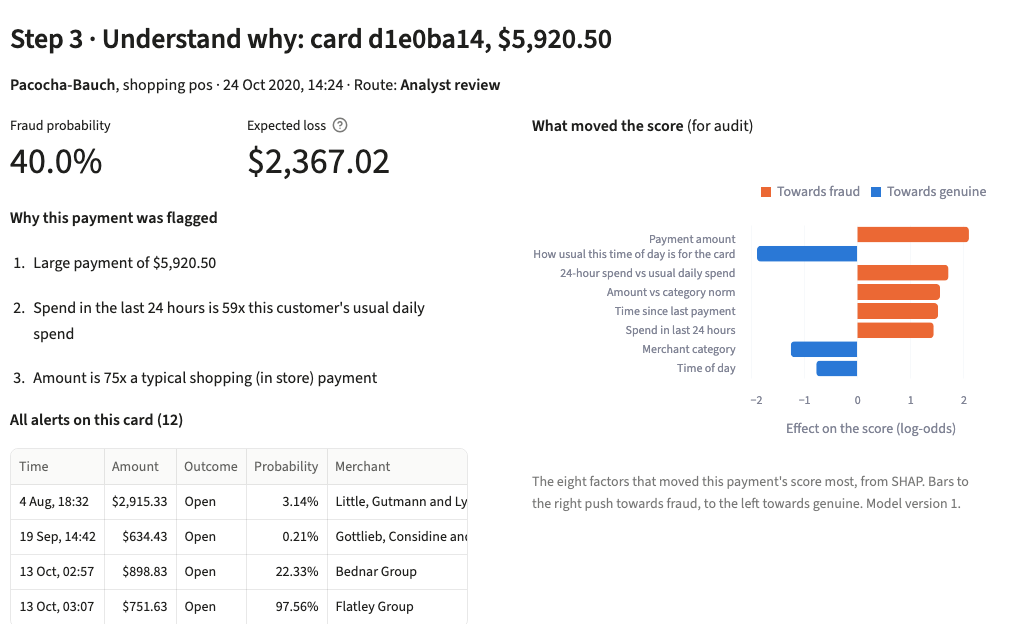
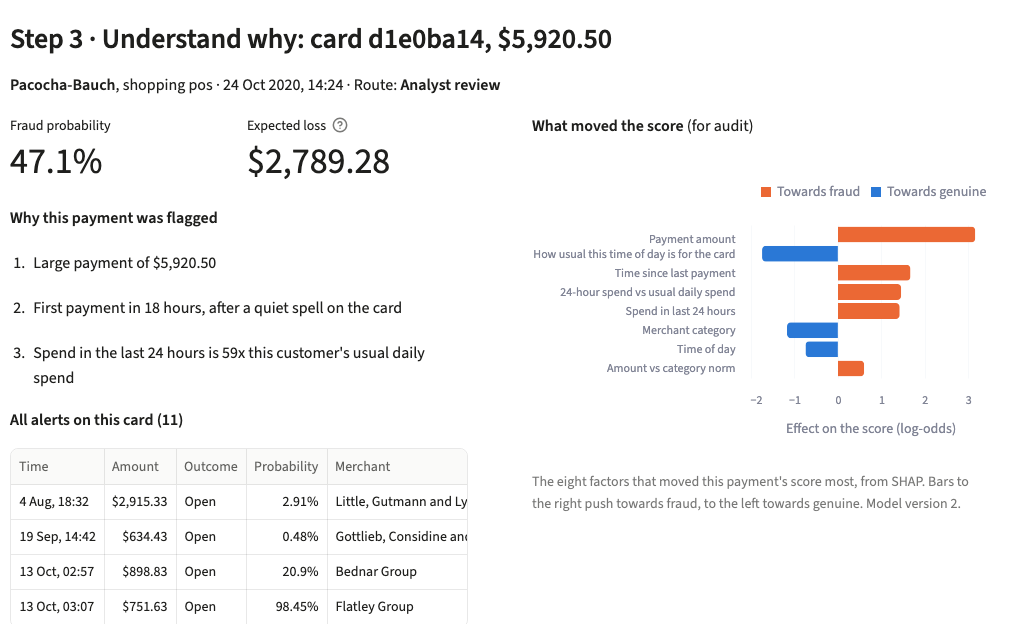
Fix training row order, retrain champion as version 2, refresh figures
The clean-machine rerun showed a rebuilt database gave a slightly
different model: training rows had no fixed order. Every loader now
sorts by time and transaction ID, and the champion is retrained as
version 2. A model change no longer leaves stale alerts open or
rewrites decided alerts. Current documents, the demo and the screenshot
are refreshed; the README and model card say why UK controls apply to
US-simulated data. CLAUDE.md is now kept local only.

diff --git a/src/explain.py b/src/explain.py
@@ -134,6 +134,8 @@ def load_alerts() -> pd.DataFrame:
         FROM scoring.decisions d
         JOIN analytics.stg_transactions s USING (trans_num)
         WHERE d.route <> 'approve'
+        -- Fixed row order, so a rebuilt database gives an identical model and results (TC-68).
+        ORDER BY s.trans_ts, d.trans_num
     """
     with connect() as conn, conn.cursor() as cur:
         cur.execute(sql)
@@ -191,7 +193,12 @@ ON CONFLICT (trans_num) DO UPDATE SET
     fraud_probability = EXCLUDED.fraud_probability, expected_loss_usd = EXCLUDED.expected_loss_usd,
     route = EXCLUDED.route, reason_1 = EXCLUDED.reason_1, reason_2 = EXCLUDED.reason_2,
     reason_3 = EXCLUDED.reason_3, reason_detail = EXCLUDED.reason_detail, model_version = EXCLUDED.model_version
+WHERE app.alerts.status = 'open'   -- a decided alert keeps the score and reasons the analyst saw
 """
+
+# After a model change, open alerts the new model no longer raises leave the queue.
+# Decided alerts are never removed: they are the audit trail.
+REMOVE_STALE = "DELETE FROM app.alerts WHERE status = 'open' AND model_version <> %s"
 
 
 def plot_importance(importance: pd.Series) -> None:
@@ -243,6 +250,8 @@ def main() -> None:
     with connect() as conn, conn.cursor() as cur:
         cur.execute(ALERTS_DDL)
         cur.executemany(UPSERT, rows)
+        cur.execute(REMOVE_STALE, (str(version),))
+        print(f"Removed {cur.rowcount:,} open alerts from earlier model versions")
         conn.commit()
         cur.execute("SELECT route, count(*) FROM app.alerts GROUP BY route ORDER BY 2 DESC")
         print("app.alerts by route:", dict(cur.fetchall()))

diff --git a/src/train.py b/src/train.py
@@ -1,6 +1,6 @@
 """Train and compare the fraud models on the validation months.
 
-Design (agreed decisions are in CLAUDE.md, "Modelling decisions"):
+Design (agreed decisions are in docs/decision_log.md, E12 to E16):
   - Fit on calendar 2019; compare on 1 Jan to 21 Jun 2020 (the rest of the training file).
     The test months (21 Jun to Dec 2020) are NOT read here at all.
   - No class reweighting: models learn the true fraud rate, so probabilities stay honest.
@@ -88,6 +88,8 @@ def load_training_file(source_file: str = "fraudTrain.csv") -> pd.DataFrame:
         FROM analytics.fct_transaction_features f
         JOIN analytics.fct_rules_baseline r USING (trans_num)
         WHERE f.source_file = '{source_file}'
+        -- Fixed row order, so a rebuilt database gives an identical model and results (TC-68).
+        ORDER BY f.trans_ts, f.trans_num
     """
     with connect() as conn, conn.cursor() as cur:
         cur.execute(sql)

diff --git a/src/leakage_checks.py b/src/leakage_checks.py
@@ -49,10 +49,6 @@ def fraud_only_cards() -> set[str]:
 
 def main() -> None:
     df = load_training_file()
-    with connect() as conn, conn.cursor() as cur:   # card token, for check 4
-        cur.execute("SELECT trans_num, card_token FROM analytics.fct_transaction_features "
-                    "WHERE source_file = 'fraudTrain.csv'")
-        df = df.merge(pd.DataFrame(cur.fetchall(), columns=["trans_num", "card_token"]), on="trans_num")
     fit = df[df["trans_ts"] < FIT_END].reset_index(drop=True)
     valid = df[df["trans_ts"] >= FIT_END].reset_index(drop=True)
     categories = sorted(fit["category"].unique())

diff --git a/src/results_table.py b/src/results_table.py
@@ -30,6 +30,8 @@ def load() -> pd.DataFrame:
         JOIN scoring.model_scores l ON l.trans_num = s.trans_num AND l.model_name = 'logistic_regression'
                                     AND l.period = 'test'
         WHERE s.source_file = 'fraudTest.csv'
+        -- Fixed row order, so a rebuilt database gives an identical model and results (TC-68).
+        ORDER BY s.trans_ts, s.trans_num
     """
     with connect() as conn, conn.cursor() as cur:
         cur.execute(sql)

diff --git a/src/decisioning.py b/src/decisioning.py
@@ -57,6 +57,8 @@ def load_period(period: str) -> pd.DataFrame:
         JOIN analytics.fct_rules_baseline r USING (trans_num)
         JOIN scoring.model_scores s USING (trans_num)
         WHERE s.model_name = 'xgboost' AND s.period = %s
+        -- Fixed row order, so a rebuilt database gives an identical model and results (TC-68).
+        ORDER BY f.trans_ts, f.trans_num
     """
     with connect() as conn, conn.cursor() as cur:
         cur.execute(sql, (period,))

diff --git a/src/drift.py b/src/drift.py
@@ -117,6 +117,8 @@ def load_outcomes() -> pd.DataFrame:
         JOIN scoring.decisions d USING (trans_num)
         JOIN analytics_restricted.fairness_attributes a USING (trans_num)
         WHERE s.source_file = 'fraudTest.csv'
+        -- Fixed row order, so a rebuilt database gives an identical model and results (TC-68).
+        ORDER BY s.trans_ts, s.trans_num
     """
     with connect() as conn, conn.cursor() as cur:
         cur.execute(sql)

diff --git a/src/fairness.py b/src/fairness.py
@@ -51,6 +51,8 @@ def load() -> pd.DataFrame:
         JOIN scoring.decisions d USING (trans_num)
         JOIN analytics_restricted.fairness_attributes a USING (trans_num)
         WHERE s.source_file = 'fraudTest.csv'
+        -- Fixed row order, so a rebuilt database gives an identical model and results (TC-68).
+        ORDER BY s.trans_ts, s.trans_num
     """
     with connect() as conn, conn.cursor() as cur:
         cur.execute(sql)

diff --git a/README.md b/README.md
@@ -5,6 +5,8 @@ A fraud operations team gets more alerts than its analysts can work. **Which ale
 This project answers that end to end: a SQL feature layer in dbt, an XGBoost model that is checked hard for leakage, a cost-based routing decision, three plain-English reasons on every alert, and a Streamlit queue where analysts record decisions with a full audit trail. The BA pack (process maps, user stories, traceability, UAT, a model card on PRA SS1/23) sits alongside it.
 
 > **Simulated data.** Everything runs on the Kaggle Sparkov dataset: 1.85 million card payments on 999 US cards, 2019 and 2020. The simulator makes fraud much easier to spot than a real book does, so the results show the method and the controls. They are not a forecast of production performance. Money is in US dollars because the data is US-simulated.
+>
+> **Why UK rules on US data?** The project designs the alert queue for a UK card issuer, so it applies the controls that issuer would answer to: FCA Consumer Duty, the Equality Act, PRA SS1/23, UK GDPR and Strong Customer Authentication. Those rules follow the bank and its customers, not the currency; a UK bank's customer paying in dollars abroad is covered by all of them. No public UK card-fraud dataset of this size exists, so US simulated data stands in, and the method carries over unchanged to a sterling book.
 
 ![Walking one alert: overview, queue, reasons, decision, MI](docs/figures/demo.gif)
 
@@ -24,7 +26,7 @@ This project answers that end to end: a SQL feature layer in dbt, an XGBoost mod
 |---|---|---|---|---|---|
 | Rules (A2, B2) | 24.8% | 47.0% | n/a | 80.6% | $94,596 |
 | Logistic regression | 36.7% | 69.4% | 0.574 | 85.9% | $144,706 |
-| **XGBoost (champion)** | **52.1%** | **98.6%** | **0.974** | **99.8%** | **$7,033** |
+| **XGBoost (champion)** | **52.1%** | **98.6%** | **0.974** | **99.8%** | **$7,027** |
 
 Test months 21 Jun to 31 Dec 2020 (555,719 payments, 2,145 frauds), used once. Total cost is fraud losses plus analyst time, with a confirmed fraud blocking the card after one hour. Logistic regression costs more than the rules despite better precision: its alerts reach fewer of the compromised cards, so fewer cards get blocked before the next fraud. Full table: [docs/results_table.md](docs/results_table.md).
 
@@ -32,13 +34,13 @@ The model also needs far fewer analysts for the same protection. It reaches abou
 
 ![Fraud value protected against analyst alerts per day, model against rules](docs/figures/capacity_curve.png)
 
-Against the rules, the four-route policy saves about $155k a year on this book, and the saving stays positive under every assumption in the sensitivity analysis (lowest case $85k). See [docs/business_case.md](docs/business_case.md).
+Against the rules, the four-route policy saves about $156k a year on this book, and the saving stays positive under every assumption in the sensitivity analysis (lowest case $85k). See [docs/business_case.md](docs/business_case.md).
 
 ## Why the numbers are believed
 
 A PR-AUC of 0.974 is treated as a bug until explained. The checks ([docs/test_cases.md](docs/test_cases.md), TC-19 to TC-22):
 
-- Shuffled labels give ROC-AUC 0.46, so no hidden label is reaching the model.
+- Shuffled labels give ROC-AUC 0.42, so no hidden label is reaching the model.
 - A model given only amount, category and hour, with no history at all, already scores ROC-AUC 0.9975. The simulator makes fraud easy to separate; that is the honest reason the numbers are high.
 - Training and testing are split by time. Features are SQL window functions over each card's *earlier* payments only, and a planted leak is caught by a dbt test.
 
@@ -48,7 +50,7 @@ A PR-AUC of 0.974 is treated as a bug until explained. The checks ([docs/test_ca
 |---|---|
 | Card data (PCI DSS) | Card numbers exist only in the raw table. dbt staging replaces them with a keyed HMAC-SHA256 token; the key lives in `.env` |
 | Personal data (UK GDPR) | Name, address, date of birth and gender never reach the features. Age and gender sit in a restricted schema used only for the fairness audit |
-| Fair treatment (Consumer Duty, Equality Act) | Interruption and detection rates by age band and gender with confidence intervals. No group is flagged; one watch item (genuine women interrupted at 62 against 50 per 10,000 for men) is explained and monitored |
+| Fair treatment (Consumer Duty, Equality Act) | Interruption and detection rates by age band and gender with confidence intervals. No group is flagged; one watch item (genuine women interrupted at 61 against 47 per 10,000 for men) is explained and monitored |
 | Model risk (PRA SS1/23) | Model card, decision log of every design choice, MLflow run history and registry, monthly drift and outcome monitoring with red/amber/green thresholds |
 | Audit trail | Every decision records who, when, the score shown, the route and the model version, in an append-only log |
 | Automated decisions (Article 22) | Every automatic decline is reviewed by an analyst, who can reinstate the customer |
@@ -66,7 +68,22 @@ scores ──> cost-based routing ──> SHAP reasons ──> app.alerts ──
                                                               └─> monthly drift monitoring
 ```
 
-PostgreSQL 16, dbt-postgres, Python 3.11 (pandas, scikit-learn, XGBoost, SHAP), MLflow, Streamlit, Docker Compose, pytest and ruff, GitHub Actions.
+## Tech stack
+
+| Layer | Tool | Used for |
+|---|---|---|
+| Database | PostgreSQL 16 | System of record: raw payments, features, scores, alerts and analyst decisions |
+| Data transformation | dbt (dbt-core 1.12, dbt-postgres) and SQL | Staging with card tokenisation, leak-free features (window functions, CTEs), rules baseline, data tests, lineage |
+| Analysis and modelling | Python 3.11: pandas, NumPy, scikit-learn, XGBoost | Logistic regression baseline and the XGBoost champion, time-split validation |
+| Explainability | SHAP | Three plain-English reasons per alert; global importance |
+| Experiment tracking | MLflow 2.22 | Every training run logged; model registry with a champion alias |
+| Analyst app | Streamlit, Altair | Alert queue with decision write-back; MI page |
+| Charts | Matplotlib | Capacity curve, calibration, sensitivity, fairness and drift figures |
+| Infrastructure | Docker and Docker Compose | One command starts PostgreSQL, MLflow and the app |
+| Quality | pytest, ruff, GitHub Actions | Unit tests, SQL feature tests on a fixture, lint, CI on every push |
+| Security checks | gitleaks | Secrets scan of the whole git history before publishing |
+| Documentation | Markdown, Mermaid, Playwright | BA pack, process maps, the demo recording |
+| Version control | Git and GitHub | Small commits, one per delivered piece of work |
 
 ## How to run it
 
@@ -161,6 +178,7 @@ Optional: `src/leakage_checks.py` reruns the leakage diagnostics and `src/spot_c
 ## Author
 
 Amrit Sharma: business analyst, MSc Business Analytics (Durham University), 15 months in card-fraud operations. The process design, the routing tiers and the scope decisions come from that operations work. Built with Claude Code as an AI pair programmer; who decided what is recorded in the [decision log](docs/decision_log.md).
-<!-- D34: LinkedIn link to be added by Amrit -->
+
+[LinkedIn](https://www.linkedin.com/in/amrit-s-74974a97/)
 
 Licence: [MIT](LICENSE), for the code only. The Kaggle dataset is not redistributed here; download it from Kaggle under its own terms.

diff --git a/docs/model_card.md b/docs/model_card.md
@@ -1,4 +1,4 @@
-# Model card: card fraud alert model (`fraud-xgboost`, version 1)
+# Model card: card fraud alert model (`fraud-xgboost`, version 2)
 
 **Status:** draft for review, not independently validated. Structured on the five principles of the PRA's supervisory statement SS1/23 (model risk management). Built on **simulated data** (Sparkov): it shows the method and the controls, not the performance of a live model.
 
@@ -6,7 +6,7 @@
 
 | Item | Detail |
 |---|---|
-| Model | XGBoost gradient-boosted trees, registered in MLflow as `fraud-xgboost`, version 1, alias `champion` |
+| Model | XGBoost gradient-boosted trees, registered in MLflow as `fraud-xgboost`, version 2, alias `champion`. Version 2 is the same settings and data as version 1, retrained with a fixed row order so a rebuild reproduces it exactly (decision D50) |
 | Purpose | Estimate the probability that a card payment is fraud, so each payment can be routed to its cheapest safe treatment and analysts can work the highest expected loss first |
 | Decisions it drives | Approve, in-app step-up, analyst review, or decline and block (`src/decisioning.py`); alert ranking; three reasons per alert |
 | Users | Fraud analysts (queue), operations team leader (MI), model owner (monitoring) |
@@ -36,6 +36,7 @@ Every design decision, its alternatives and who made it is in `decision_log.md`.
 
 ### Data
 - Kaggle "Credit Card Transactions Fraud Detection" (simulated with Sparkov): 1,852,394 payments on 999 cards, 1 Jan 2019 to 31 Dec 2020, about 0.5% fraud overall.
+- **US data, UK controls:** the model is designed for a UK card issuer, so it is governed under UK rules (SS1/23, Consumer Duty, UK GDPR). The simulated customers are US residents and amounts are in US dollars; no public UK dataset of this kind exists. Before any UK use the model would be revalidated on the issuer's own sterling data (Principle 4).
 - **Split by time, never at random:**
   - Model selection: fit on calendar 2019, compare on 1 Jan to 21 Jun 2020.
   - The chosen settings were then retrained on all training months (to 21 Jun 2020).
@@ -55,19 +56,19 @@ Payment amount, hour of day, merchant category (one-hot), and 13 behavioural fea
 | Measure | XGBoost | Logistic regression | Rules |
 |---|---|---|---|
 | PR-AUC | 0.974 (validation 0.983) | 0.574 | n/a |
-| ROC-AUC | 0.9994 | 0.958 | n/a |
+| ROC-AUC | 0.9995 | 0.958 | n/a |
 | Brier score | 0.0004 | 0.0023 | n/a |
-| Mean predicted against actual fraud rate | 0.380% against 0.386% | 0.374% against 0.386% | n/a |
+| Mean predicted against actual fraud rate | 0.381% against 0.386% | 0.374% against 0.386% | n/a |
 | At the rules' workload (20.9 alerts a day): precision | 52.1% | 36.7% | 24.8% |
 | Recall | 98.6% | 69.4% | 47.0% |
 | Fraud value caught | 99.8% | 85.9% | 80.6% |
-| Total cost (fraud losses + analyst time, with card blocks) | $7,033 | $144,706 | $94,596 |
+| Total cost (fraud losses + analyst time, with card blocks) | $7,027 | $144,706 | $94,596 |
 
-Sources: MLflow `final-evaluation`; `results_table.md`. The four-route policy and its business case (about $155k a year saved against the rules, positive in every sensitivity case) are in `business_case.md`.
+Sources: MLflow `final-evaluation`; `results_table.md`. The four-route policy and its business case (about $156k a year saved against the rules, positive in every sensitivity case) are in `business_case.md`.
 
 ### Why the results are believed, despite looking very good
 Results this strong are treated as a possible bug until explained (TC-19 to TC-22):
-- Shuffled labels give ROC-AUC 0.46: the pipeline carries no hidden label.
+- Shuffled labels give ROC-AUC 0.42: the pipeline carries no hidden label.
 - A model on amount, category and hour alone (no history at all) reaches ROC-AUC 0.9975: **the simulator makes fraud easy to separate.** This is the main reason the numbers would not carry over to a real book.
 - Removing the 91 cards that hold nothing but fraud barely changes the result (PR-AUC 0.981 against 0.983).
 - No single feature dominates suspiciously.
@@ -75,19 +76,19 @@ Results this strong are treated as a possible bug until explained (TC-19 to TC-2
 ### Explainability
 - SHAP (TreeExplainer) splits every score into feature contributions; checked to match XGBoost's own values exactly (TC-30).
 - Each alert shows its three strongest reasons in plain English with the payment's own values. Wording is tested in both directions; testing found and fixed a misleading card-history reason (TC-54).
-- Largest contributors overall (mean absolute SHAP share): amount 16.4%, amount against category norm 15.0%, merchant category 10.7%, spend in last 24 hours 10.6%, hour of day 9.9%.
+- Largest contributors overall (mean absolute SHAP share): amount 15.7%, amount against category norm 15.5%, merchant category 11.2%, spend in last 24 hours 11.0%, hour of day 10.0%.
 
 ### Fairness (Consumer Duty, Equality Act)
 No age band or gender group is flagged (`fairness_audit.md`).
-- The model interrupts fewer genuine customers than the rules overall (56.8 against 61.1 per 10,000), and closes a protection gap the rules had (women's fraud detected 42% under the rules against 55% for men; 97% against 99% under the model).
-- **Watch item:** genuine women are interrupted more than genuine men (62.1 against 50.3 per 10,000), below the flag threshold. The likely cause is the population-wide category norm feature; a customer-specific version is the recommended challenger.
+- The model interrupts fewer genuine customers than the rules overall (54.7 against 61.1 per 10,000), and closes a protection gap the rules had (women's fraud detected 42% under the rules against 55% for men; 97% against 99% under the model).
+- **Watch item:** genuine women are interrupted more than genuine men (60.9 against 47.3 per 10,000), below the flag threshold. The likely cause is the population-wide category norm feature; a customer-specific version is the recommended challenger.
 
 ### Implementation and use
 Batch scoring of a historical period; results in PostgreSQL (`scoring.*`, `app.alerts`); a Streamlit queue records analyst decisions with an audit log of the score, route and model version shown. Real-time scoring is out of scope.
 
 ## Principle 4: Independent validation
 
-**Status: not independently validated.** The developer's own evidence is in `test_cases.md` (TC-01 to TC-64), including leakage checks, a planted-leak test, calibration, a single use of the test months, and CI that rebuilds the SQL on a hand-checked fixture. A second-line validator should, as a minimum:
+**Status: not independently validated.** The developer's own evidence is in `test_cases.md` (TC-01 to TC-70), including leakage checks, a planted-leak test, calibration, a single use of the test months, and CI that rebuilds the SQL on a hand-checked fixture. A second-line validator should, as a minimum:
 
 1. Rerun the pipeline from raw data and reproduce the test metrics (fixed seed).
 2. Challenge the feature definitions for leakage (window boundaries, same-second payments).

diff --git a/docs/business_case.md b/docs/business_case.md
@@ -12,14 +12,14 @@ Should the fraud team replace its rules with the model-led queue, and if so, wit
 
 | | No controls | Rules (today) | Model, like-for-like | **Model, four routes** |
 |---|---|---|---|---|
-| Fraud $ stopped by the route itself | 0% | 82.1% | 99.9% | 99.8% |
+| Fraud $ stopped by the route itself | 0% | 82.1% | 99.9% | 99.9% |
 | Fraud $ protected, including card blocks | 0% | 93.2% | 99.9% | 99.9% |
-| Fraud losses | $1,133,325 | $77,535 | $715 | $960 |
-| Analyst alerts worked per day | 0 | 17.6 | 9.6 | **3.2** |
-| Analyst hit rate | n/a | 10% | 16% | 10% |
-| Customer step-ups per day (genuine) | 0 | 1.7 (1.7) | 2.0 (1.9) | 14.0 (13.8) |
+| Fraud losses | $1,133,325 | $77,535 | $711 | $783 |
+| Analyst alerts worked per day | 0 | 17.6 | 9.3 | **3.2** |
+| Analyst hit rate | n/a | 10% | 17% | 10% |
+| Customer step-ups per day (genuine) | 0 | 1.7 (1.7) | 2.1 (2.1) | 13.3 (13.2) |
 | Genuine cards declined per day | 0 | 0 | 0 | 0.1 |
-| **Total cost over the test months** | $1,133,325 | $86,804 | $5,889 | **$4,393** |
+| **Total cost over the test months** | $1,133,325 | $86,807 | $5,745 | **$4,136** |
 | **Total cost, annualised** | $2.13m | $163k | $11k | **$8k** |
 
 Total cost = fraud losses + analyst time + step-up cost + false-decline cost.
@@ -28,26 +28,26 @@ Total cost = fraud losses + analyst time + step-up cost + false-decline cost.
 
 ## What the numbers say
 
-1. **The model's gain over the rules is about $155k a year on this book** (annualised from 194 days), roughly **$155 per card per year**. The rules already protect 93% of fraud value once confirm then block is counted; the model closes most of the remaining 7%.
-2. **Most of the gain comes from better ranking, not from the extra routes.** Like-for-like already cuts cost from $86.8k to $5.9k. Four routes saves a further $1.5k, mainly by needing a third as many analyst reviews.
-3. **The four-route policy trades analyst time for customer friction:** 3 analyst reviews a day instead of 10, but about 14 genuine customers a day asked to confirm a payment in their app (0.5% of the day's payments), against 2.
+1. **The model's gain over the rules is about $156k a year on this book** (annualised from 194 days), roughly **$156 per card per year**. The rules already protect 93% of fraud value once confirm then block is counted; the model closes most of the remaining 7%.
+2. **Most of the gain comes from better ranking, not from the extra routes.** Like-for-like already cuts cost from $86.8k to $5.7k. Four routes saves a further $1.6k, mainly by needing a third as many analyst reviews.
+3. **The four-route policy trades analyst time for customer friction:** 3 analyst reviews a day instead of 9, but about 13 genuine customers a day asked to confirm a payment in their app (0.5% of the day's payments), against 2.
 4. **Analyst capacity stops being the constraint.** The model protects about 98% of fraud value with roughly 2 analyst alerts a day (`figures/capacity_curve.png`). The rules need about 18 a day to reach 93%.
 
 ## How much the answer depends on the assumptions
 
-`figures/sensitivity_tornado.png` moves each assumption down and up. Base saving: **$155k a year**.
+`figures/sensitivity_tornado.png` moves each assumption down and up. Base saving: **$156k a year**.
 
 | Assumption (low / high) | Saving at low | Saving at high |
 |---|---|---|
-| Loss rate on missed fraud (50% / 100%) | $85k | $155k |
-| Block delay (15 min / 4 hours) | $141k | $206k |
+| Loss rate on missed fraud (50% / 100%) | $85k | $156k |
+| Block delay (15 min / 4 hours) | $141k | $207k |
 | Minutes per review (2.5 / 7.5) | $148k | $163k |
 | Analyst hourly cost ($16 / $48) | $148k | $163k |
 | Fraudster pass rate on step-up (5% / 20%) | $156k | $157k |
 | Step-up cost ($0.25 / $0.75) | $156k | $155k |
-| False-decline cost ($10 / $30) | $155k | $155k |
-| Genuine confirm rate (90% / 99%) | $155k | $155k |
-| Analyst capacity (10 / 32 a day) | $155k | $155k |
+| Genuine confirm rate (90% / 99%) | $155k | $156k |
+| False-decline cost ($10 / $30) | $156k | $156k |
+| Analyst capacity (10 / 32 a day) | $156k | $156k |
 
 - **The case is positive under every assumption tested.** The lowest value is $85k, when the bank recovers half of each missed fraud.
 - **The two assumptions that matter are how much of a missed fraud the bank actually loses, and how fast a confirmed fraud blocks the card.** A slower block helps the model's case, because the rules rely more on blocks to catch follow-on fraud.
@@ -55,7 +55,7 @@ Total cost = fraud losses + analyst time + step-up cost + false-decline cost.
 
 ## Calibration
 
-`figures/calibration.png`: predicted probabilities track actual fraud rates on both the validation and test months, which is what expected-loss ranking relies on. In the middle bands the model is slightly cautious (payments scored around 0.6 turn out to be fraud about 69% of the time), so it understates rather than overstates risk there.
+`figures/calibration.png`: predicted probabilities track actual fraud rates on both the validation and test months, which is what expected-loss ranking relies on. In the middle bands the model is slightly cautious (payments scored around 0.6 turn out to be fraud about 66% of the time), so it understates rather than overstates risk there.
 
 ## Recommendation
 

diff --git a/docs/test_cases.md b/docs/test_cases.md
@@ -156,10 +156,13 @@ Run with `pytest` (see the README). The SQL tests build the dbt project on an in
 |---|---|---|---|---|
 | TC-68 | The project runs on a clean machine from the README alone | Fresh clone of the committed repo; new `.env` with a new password and card-token key; separate Compose project on other ports; new Python 3.11 environment; README steps 3 to 5 in order; then pytest and ruff | Every step runs; test metrics reproduce | ✅ Pass, with one finding. All steps ran in 16 minutes (dbt 43 of 43, pytest 45 of 45, ruff clean). Precision 52.1%, recall 98.6% and value caught 99.8% reproduced exactly; PR-AUC 0.975 against 0.974, total cost $6,916 against $7,033, annual saving $156k against $155k, women's interruption rate 60.9 against 62.1 per 10,000. See findings |
 | TC-69 | No secrets or data in anything that will be pushed | gitleaks 8.21.2 over all 20 commits; whole history searched for the real database password and card-token key; `.env` tracking history; every CSV or data file ever committed; largest files; 16-digit numbers | Nothing found | ✅ Pass: no leaks; neither secret appears; `.env` never tracked; only the two invented test fixtures are CSVs; largest file 0.45 MB (demo GIF); repository 3 MB |
+| TC-70 | A model change refreshes the queue without touching decided alerts | Retrain as version 2, rerun `src/explain.py`, count open alerts by model version | Only the current version's alerts are open; decided alerts keep the score and reasons the analyst saw | ✅ Pass after a fix: the refresh had left 378 version 1 alerts open that version 2 approves, and would have overwritten the score on decided alerts. Now open alerts from older versions are removed (378) and decided alerts are never updated; 5,129 open alerts, all version 2 |
 
 ## Findings from testing
 
-- **A rebuild reproduces the decisions but not the model to the last digit (TC-68).** The training query has no fixed row order, so PostgreSQL returns rows in storage order, which differs between database builds; with the same seed, XGBoost's 80% row sampling then picks different rows. Headline decisions reproduced exactly; scores moved in the third significant figure. Fix proposed (sort rows by time and transaction ID before training), held for Amrit because it changes published figures.
+- **A model change left stale alerts in the queue (TC-70, fixed).** Refreshing alerts after retraining added and updated alerts but never removed ones the new model approves, so 378 version 1 alerts stayed open for analysts to work. The same refresh would also have rewritten the score on alerts an analyst had already decided, breaking the record of what they saw.
+
+- **A rebuild reproduces the decisions but not the model to the last digit (TC-68).** The training query has no fixed row order, so PostgreSQL returns rows in storage order, which differs between database builds; with the same seed, XGBoost's 80% row sampling then picks different rows. Headline decisions reproduced exactly; scores moved in the third significant figure. **Fixed (D50):** every loader now sorts rows by time and transaction ID; the champion was retrained as version 2 and every current document refreshed. Precision, recall and value caught were unchanged; other figures moved in the third significant figure. Test entries above TC-68 record the version 1 values they were run on.
 
 - **High-severity defect found in the UAT dry run (fixed).** If another analyst worked the queue between a page being drawn and a button being clicked, the decision was applied to whichever alert was then in that position: in the test, a "Not fraud" meant for one alert was recorded against a different $6,852.36 payment. Unit tests couldn't see it, because each function was correct on its own; it only showed up with two people using the queue at once. Decisions are now bound to the transaction ID on screen, and selections are resolved by ID. Retested: pass (UAT-10, TC-65).
 - **Reason wording bug, found while writing TC-54 (fixed).** The card-history reason always said "Limited card history", even for a card with 2,521 earlier payments; 78 alerts carried it. It now says "Limited card history" only below 50 earlier payments and states the count as a plain fact above that. The time-of-day reason got the same guard (no live alert was affected). Alerts were regenerated; no analyst decisions existed to protect.

diff --git a/docs/fairness_audit.md b/docs/fairness_audit.md
@@ -25,29 +25,29 @@ Two questions, asked for the current rules and for the model's four-route policy
 
 | Group | Rules: interruptions per 10k genuine | Model: interruptions per 10k genuine | Rules: fraud detected | Model: fraud detected |
 |---|---|---|---|---|
-| All customers | 61.1 | **56.8** | 47.9% | **97.9%** |
+| All customers | 61.1 | **54.7** | 47.9% | **97.9%** |
 | Under 18 | 35.0 | 28.6 | (no fraud) | (no fraud) |
-| 18-24 | 47.3 | 32.6 | 56.9% | 99.3% |
-| 25-34 | 67.1 | 57.6 | 46.1% | 98.8% |
-| 35-44 | 64.8 | 58.4 | 43.3% | 97.7% |
-| 45-54 | 64.4 | 59.1 | 44.0% | 97.0% |
-| 55-64 | 54.4 | 62.0 | 54.6% | 98.5% |
-| 65+ | 57.3 | 59.5 | 49.2% | 97.3% |
-| Female | 59.1 | 62.1 | **42.3%** | 97.3% |
-| Male | 63.5 | 50.3 | **54.5%** | 98.8% |
+| 18-24 | 47.3 | 35.3 | 56.9% | 99.3% |
+| 25-34 | 67.1 | 58.6 | 46.1% | 98.8% |
+| 35-44 | 64.8 | 57.9 | 43.3% | 97.2% |
+| 45-54 | 64.4 | 56.4 | 44.0% | 97.2% |
+| 55-64 | 54.4 | 57.0 | 54.6% | 97.9% |
+| 65+ | 57.3 | 52.3 | 49.2% | 97.6% |
+| Female | 59.1 | 60.9 | **42.3%** | 97.3% |
+| Male | 63.5 | 47.3 | **54.5%** | 98.5% |
 
 **No group is flagged under either policy.**
 
 ## Findings
 
-1. **The model interrupts fewer genuine customers overall** (56.8 against 61.1 per 10,000) **and detects fraud far more evenly.** Under the rules, women's fraud was detected noticeably less often than men's (42% against 55%, a protection gap the rules never surfaced). The model closes it (97% against 99%).
+1. **The model interrupts fewer genuine customers overall** (54.7 against 61.1 per 10,000) **and detects fraud far more evenly.** Under the rules, women's fraud was detected noticeably less often than men's (42% against 55%, a protection gap the rules never surfaced). The model closes it (97% against 99%).
 
-2. **Watch item: the model interrupts genuine women more often than genuine men** (62.1 against 50.3 per 10,000). The intervals don't overlap, so it is a real difference, but at 1.09 times the overall rate it is below the flag threshold. Under the rules the pattern ran the other way (59.1 against 63.5).
-   - **It is not explained by what people buy.** If women had men's interruption rate within each merchant category, their rate would be 51.7, not 62.1. Most of the gap sits within categories (miscellaneous in-store 111 against 63; home 61 against 41).
+2. **Watch item: the model interrupts genuine women more often than genuine men** (60.9 against 47.3 per 10,000). The intervals don't overlap, so it is a real difference, but at 1.11 times the overall rate it is below the flag threshold. Under the rules the pattern ran the other way (59.1 against 63.5).
+   - **It is not explained by what people buy.** If women had men's interruption rate within each merchant category, their rate would be 48.8, not 60.9. Most of the gap sits within categories (miscellaneous in-store 104 against 55; home 56 against 38).
    - **Likely driver: the "amount vs category norm" feature.** It compares each payment with the average across all customers. Women's genuine payments are more often three or more times the category norm (4.4% against 3.7%), so a feature built on a population-wide norm acts partly as a proxy.
    - **Recommendation:** keep it under monitoring, and test a challenger that compares each payment with the customer's *own* category history. That was the alternative considered when the feature was designed, and it is likely to be fairer.
 
-3. **Age:** 55-64 and 65+ are interrupted slightly more under the model than the rules (62.0 and 59.5 against 54.4 and 57.3), within the overall range and below the flag threshold. Younger customers are interrupted less.
+3. **Age:** only 55-64 is interrupted slightly more under the model than under the rules (57.0 against 54.4), within the overall range and below the flag threshold. Every other band is interrupted less.
 
 4. **Data quality: 13 cards belong to customers aged 13 to 17**, a simulator artefact (UK credit cards require 18 or over). They are reported as their own band rather than hidden in 18-24.
 
